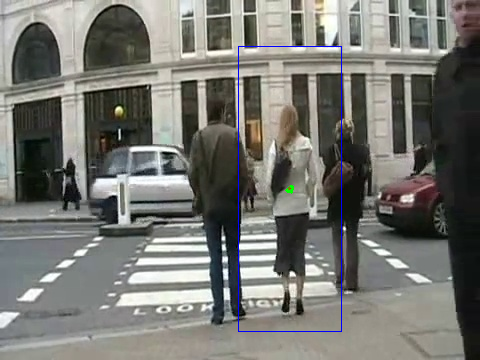
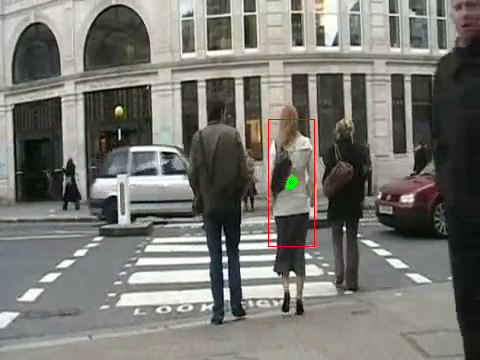
ps5 4. Refacotred rendering methods.

Changed region(s): [[0.5938, 0.4889, 0.625, 0.55], [0.6875, 0.1222, 0.7188, 0.1528], [0.625, 0.6722, 0.6562, 0.7028]]

diff --git a/code/PS5/ps05/ps5.py b/code/PS5/ps05/ps5.py
@@ -539,65 +539,25 @@ class MDParticleFilter(AppearanceModelPF):
         # cv2.imshow('template window', tmp_frame)
         # cv2.waitKey(1)
 
-    # def render(self, frame_in):
-    #     super(MDParticleFilter, self).render(frame_in)
-    #
-    #     x_weighted_mean = 0
-    #     y_weighted_mean = 0
-    #     z_weighted_mean = 0
-    #
-    #     for i in range(self.num_particles):
-    #         x_weighted_mean += self.particles[i, 0] * self.weights[i]
-    #         y_weighted_mean += self.particles[i, 1] * self.weights[i]
-    #         z_weighted_mean += self.particles[i, 2] * self.weights[i]
-    #
-    #         # print(x_weighted_mean, y_weighted_mean, z_weighted_mean)
-    #
-    #     x_weighted_mean = int(x_weighted_mean)
-    #     y_weighted_mean = int(y_weighted_mean)
-    #     z_weighted_mean = z_weighted_mean/100
-    #
-    #     print(x_weighted_mean, y_weighted_mean, z_weighted_mean)
-    #
-    #     template_mean = cv2.resize(
-    #         self.template[:,:,0], (0, 0), fx=z_weighted_mean, fy=z_weighted_mean
-    #     )
-    #     h, w = template_mean.shape
-    #
-    #     row_start = y_weighted_mean - h // 2
-    #     row_end = row_start + h
-    #
-    #     col_start = x_weighted_mean - w // 2
-    #     col_end = col_start + w
-    #
-    #     cv2.rectangle(
-    #         frame_in,
-    #         (col_start, row_start),
-    #         (col_end, row_end),
-    #         (0, 0, 255),
-    #         1,
-    #     )
+    def _draw_tracking_window(self, frame_in, x_weighted_mean, y_weighted_mean):
 
-    # def _draw_tracking_window(self, frame_in, x_weighted_mean, y_weighted_mean):
-    #
-    #     z_weighted_mean = 0
-    #
-    #     for i in range(self.num_particles):
-    #         z_weighted_mean += self.particles[i, 2] * self.weights[i]
-    #
-    #     # draw template box
-    #     h, w, _ = self.template.shape
-    #
-    #     row_start = int(y_weighted_mean - h // 2)
-    #     row_end = row_start + h
-    #
-    #     col_start = int(x_weighted_mean) - w // 2
-    #     col_end = col_start + w
-    #
-    #     cv2.rectangle(
-    #         frame_in,
-    #         (col_start, row_start),
-    #         (col_end, row_end),
-    #         (255, 0, 0),
-    #         1,
-    #     )
+        z_weighted_mean = np.average(self.particles[:, 2], weights=self.weights)/100
+
+        template_mean = cv2.resize(
+            self.template[:,:,0], (0, 0), fx=z_weighted_mean, fy=z_weighted_mean
+        )
+        h, w = template_mean.shape
+
+        row_start = y_weighted_mean - h // 2
+        row_end = row_start + h
+
+        col_start = x_weighted_mean - w // 2
+        col_end = col_start + w
+
+        cv2.rectangle(
+            frame_in,
+            (col_start, row_start),
+            (col_end, row_end),
+            (0, 0, 255),
+            1,
+        )

diff --git a/code/PS5/ps05/experiment.py b/code/PS5/ps05/experiment.py
@@ -318,7 +318,7 @@ def part_4():
     }
 
     num_particles = 200  # Define the number of particles
-    sigma_md = 10  # Define the value of sigma for the measurement exponential equation
+    sigma_md = 20  # Define the value of sigma for the measurement exponential equation
     sigma_dyn = 1  # Define the value of sigma for the particles movement (dynamics)
     alpha = 0  # Set a value for alpha
     min_scale = 0.3
